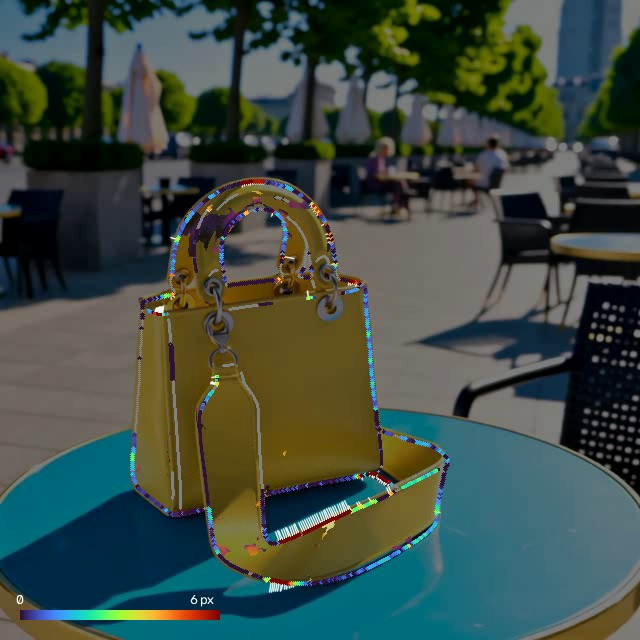
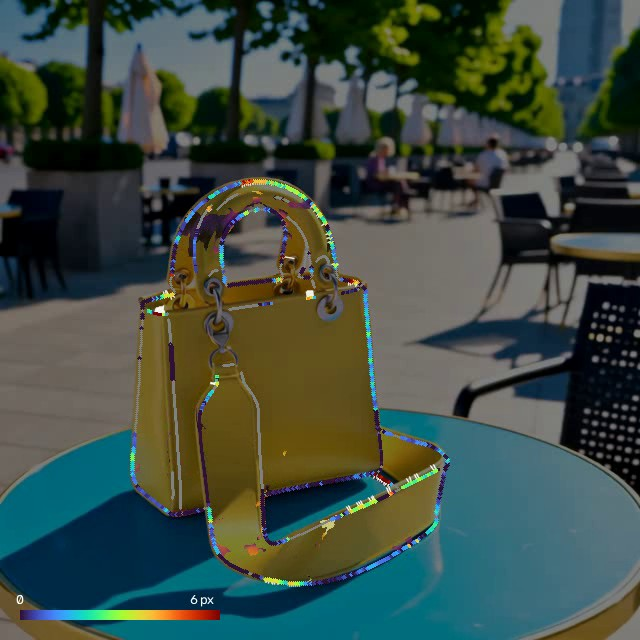
Abandon the warp-based shape correction, keep it as a documented experiment; fix edge detector on cast shadows
- deformation_map.py: absolute colour condition (BAG_COLOR_MAX_DIST = 45) so the
  detector no longer latches onto the table / cast-shadow boundary.
- edge_correction.py: marked as an abandoned experiment; now targets the 3D
  contour itself (raw offset) instead of the affine-placed contour; smoothing
  along edges (--smoothing).
- README: step 5 rewritten as "tried, then abandoned" with the reasons
  (Liquify-like result, unreliable internal edges, large deformations out of
  reach, circular re-measurement); new failure illustration.

diff --git a/comp/edge_correction.py b/comp/edge_correction.py
@@ -1,9 +1,16 @@
 """
 edge_correction.py — CORRECT the bag's shape in the AI video, by pulling its edges back onto the 3D edges.
 
+STATUS: EXPERIMENT TESTED AND ABANDONED (2026-11-11). Kept for reference; see "Correcting the deformation:
+tried, then abandoned" in the README. In short: it passes its synthetic validation, but on real AI videos the
+result looks like a Photoshop Liquify brush (lumpy edges, dented strap where leather passes over leather), and
+an independent colour-based measurement shows only a 12-19 % reduction of the edge error. Use
+deformation_map.py to MEASURE the deformation, and the exact pass-2 mask to PREVENT it.
+
 PRINCIPLE
   deformation_map.py measures, for each 3D edge point, where the matching edge lies in the AI frame: an offset
-  r along the normal (after the global placement). The AI frame is warped to cancel that offset:
+  r along the normal, RAW, i.e. without the global placement (see offset_to_correct). The AI frame is warped to
+  cancel that offset:
     - "backward" field u: output pixel x fetches input pixel x + u(x) (cv2.remap);
     - at edge point P, u(P) = s · N, where s = the offset TO CORRECT: the AI edge is at P + r·N, we want it
       back at P;
@@ -24,6 +31,9 @@ PRINCIPLE
   STABILITY: while the 3D bag is still (frames --still-start to the end), each point's offset is replaced by its
   temporal median (the AI's deformation is stable over time). A single field is applied to the whole range, so
   the image does not wobble.
+
+  SMOOTHING (--smoothing, default 3 px): the correction is smoothed along each edge, since the per-point lighting
+  tolerance is noisy and would otherwise make the corrected edge jitter.
 
   SAFEGUARDS (without them, one aberrant measurement is enough to tear the image):
     1. neighbour consistency (filter_consistency): an AI deformation is SMOOTH along an edge; a point whose
@@ -59,8 +69,14 @@ import edge_confidence as ec
 
 
 def offset_to_correct(sil, conf, mode, min_vis=0.5):
-    """s per point (nan = unknown / left untouched)."""
-    r, T = sil["residual_raw"], sil["T"]
+    """s per point (nan = unknown / left untouched).
+
+    TARGET = THE 3D CONTOUR ITSELF. We correct the RAW offset d (AI edge at P + d·N), not the residual r left after
+    deformation_map's global affine placement. That placement is useful for measuring shape independently of
+    position, but it absorbs part of the real deformations (handles...) and, in compensation, creates fictitious
+    offsets on correct edges (inner strap edge: d = +0.6 px, r = -1.5 px). Correcting r created bumps there. In
+    this pipeline the video is generated from the render, so the right position is known: it is P."""
+    r, T = sil["d"], sil["T"]
     tol = np.fmax(conf["tol"], sil["band"])
     ok = sil["found"] & (conf["vis"] >= min_vis) & np.isfinite(conf["tol"]) & (T <= 1)
     if mode == "certain":
@@ -92,6 +108,44 @@ def filter_consistency(P, T, s, radius=8.0, max_dev=1.5, s_max=6.0, min_neighbou
                 keep[i] = abs(s[idx[i]] - np.median(s[idx[v]])) <= max_dev
         s[idx[~keep]] = np.nan
     return np.where(np.abs(s) <= s_max, s, np.nan)
+
+
+def smooth_along_edges(P, N, T, s, sigma=3.0, cos_min=0.5):
+    """Against jitter: after the consistency filter, two neighbouring points can still get slightly different
+    corrections (the per-point lighting tolerance jumps from 0.2 to 1.1 px between neighbours). An AI deformation is
+    smooth along an edge, so each s is replaced by the Gaussian-weighted mean (sigma px) of its neighbours: same edge
+    type, and normal pointing the same way (cos > cos_min), so that the two sides of a narrow strap are not mixed.
+    The points lie on curves, so this smooths ALONG the contour. sigma = 0: disabled."""
+    if sigma <= 0:
+        return s
+    from scipy.spatial import cKDTree
+    s_s = s.copy()
+    ok = np.isfinite(s)
+    for ty in np.unique(T):
+        idx = np.where(ok & (T == ty))[0]
+        if len(idx) < 2:
+            continue
+        tree = cKDTree(P[idx])
+        for i, v in enumerate(tree.query_ball_point(P[idx], 3 * sigma)):
+            v = np.array(v)
+            v = v[(N[idx[v]] @ N[idx[i]]) > cos_min]
+            d2 = ((P[idx[v]] - P[idx[i]]) ** 2).sum(1)
+            wts = np.exp(-d2 / (2 * sigma ** 2))
+            s_s[idx[i]] = (wts * s[idx[v]]).sum() / wts.sum()
+    return s_s
+
+
+def ripple(sil, r_max=3.0):
+    """Ripple of an edge: along the silhouette (points in contour order, every 2 px), the second difference
+    |r[i-1] - 2 r[i] + r[i+1]| of the measured offset. A straight but shifted edge gives 0; a wavy edge gives a large
+    value. Only triplets of found, consecutive points (less than r_max px apart, so on the same contour) are kept."""
+    P, r, T, f = sil["P"], sil["residual_raw"], sil["T"], sil["found"]
+    i = np.where(T == 0)[0]
+    i = i[(i >= 1) & (i < len(P) - 1)]
+    ok = (T[i - 1] == 0) & (T[i + 1] == 0) & f[i - 1] & f[i] & f[i + 1]
+    ok &= (np.linalg.norm(P[i] - P[i - 1], axis=1) < r_max) & (np.linalg.norm(P[i + 1] - P[i], axis=1) < r_max)
+    i = i[ok]
+    return np.abs(r[i - 1] - 2 * r[i] + r[i + 1])
 
 
 def anti_fold(u, min_det=0.5, attempts=8):
@@ -148,7 +202,7 @@ def measure_offsets(img, mask, passes, conf, mode):
     return sil, offset_to_correct(sil, conf, mode)
 
 
-def correct_frames(frames, masks, passes, confs, mode, still_start, correction_passes=2, sigma=4.0):
+def correct_frames(frames, masks, passes, confs, mode, still_start, correction_passes=2, sigma=4.0, smoothing=3.0):
     """Returns the corrected frames and the fields. Still range: a single field (temporal median)."""
     h, w = frames[0].shape[:2]
     n = len(frames)
@@ -168,6 +222,7 @@ def correct_frames(frames, masks, passes, confs, mode, still_start, correction_p
             if S[k] is None:
                 continue
             s = filter_consistency(sils[k]["P"], sils[k]["T"], S[k])
+            s = smooth_along_edges(sils[k]["P"], sils[k]["N"], sils[k]["T"], s, smoothing)
             u = field_from_points(sils[k]["P"], sils[k]["N"], s, h, w, sigma)
             fields[k] = anti_fold(compose_fields(fields[k], u))
     return [apply_field(frames[k], fields[k]) for k in range(n)], fields
@@ -233,7 +288,7 @@ def mode_validate(a):
                 # Validation frames only, each with its own bumps: no temporal median.
                 sel = val_frames
                 _, fl = correct_frames([video[k] for k in sel], [masks[k] for k in sel], [passes[k] for k in sel],
-                                       [confs[k] for k in sel], mode, len(sel))
+                                       [confs[k] for k in sel], mode, len(sel), smoothing=a.smoothing)
                 fields = dict(zip(sel, fl))
                 for k in val_frames:
                     # EXACT residual error: deformed image D(x) = I(x - c(x)), corrected C(x) = D(x + u(x))
@@ -272,6 +327,15 @@ def mode_validate(a):
                                 row[f"pts_{name}_{lo}-{hi}_before"] = float(bef[m].mean())
                                 row[f"pts_{name}_{lo}-{hi}_after"] = float(aft[m].mean())
                                 row[f"pts_{name}_{lo}-{hi}_n"] = int(m.sum())
+                    # EXACT ripple: residual error along the normal, at the silhouette points taken in contour order;
+                    # second difference between consecutive points (before / after correction).
+                    i0 = np.where(sr["T"] == 0)[0]
+                    Ps, Ns = sr["P"][i0], sr["N"][i0]
+                    e_n = {name: (np.stack([dm.sample_bilinear(np.ascontiguousarray(f_[..., i]), Ps[:, 0], Ps[:, 1]) for i in range(2)], 1) * Ns).sum(1)
+                           for name, f_ in (("before", -c_true), ("after", u - c_u))}
+                    cons = (np.linalg.norm(Ps[1:-1] - Ps[:-2], axis=1) < 3) & (np.linalg.norm(Ps[2:] - Ps[1:-1], axis=1) < 3)
+                    for name, e in e_n.items():
+                        row[f"ripple_sil_{name}"] = float(np.mean(np.abs(e[:-2] - 2 * e[1:-1] + e[2:])[cons]))
                     rows.append(row)
             print(f"lighting {j} bumps={with_bumps} done")
     if os.path.exists(os.path.join(a.out, "_tmp.mp4")):
@@ -280,7 +344,7 @@ def mode_validate(a):
     for b in (False, True):
         for mode in ("certain", "full"):
             L = [r for r in rows if r["bumps"] == b and r["mode"] == mode]
-            keys = sorted({c for r in L for c in r if c.startswith(("bump_", "elsewhere_", "max_displacement", "pts_"))})
+            keys = sorted({c for r in L for c in r if c.startswith(("bump_", "elsewhere_", "max_displacement", "pts_", "ripple"))})
             res[f"{'with' if b else 'without'}_bumps_{mode}"] = {
                 c: float(np.nanmean([r[c] for r in L if c in r])) for c in keys}
     with open(os.path.join(a.out, "validation.json"), "w", encoding="utf-8") as f:
@@ -295,7 +359,7 @@ def mode_correct(a):
     refs, masks, passes = dm.read_refs(a.refs, w, h)
     n = min(len(video), len(refs))
     confs = [dm.read_confidence(a.confidence, k) for k in range(n)]
-    corr, fields = correct_frames(video[:n], masks[:n], passes[:n], confs, a.mode, a.still_start)
+    corr, fields = correct_frames(video[:n], masks[:n], passes[:n], confs, a.mode, a.still_start, smoothing=a.smoothing)
     dm.write_video(os.path.join(a.out, "corrected.mp4"), corr, fps)
     side = []
     for k in range(n):
@@ -310,7 +374,13 @@ def mode_correct(a):
     dm.write_video(os.path.join(a.out, "before_after_field.mp4"), side, fps)
     np.savez_compressed(os.path.join(a.out, "fields.npz"), fields=np.stack(fields).astype(np.float16))
     amp = [float(np.linalg.norm(c, axis=2).max()) for c in fields]
-    print(json.dumps({"max_displacement_px": max(amp), "median_max_displacement_px": float(np.median(amp))}))
+    # Silhouette ripple, before / after, on the still frames (same detector: indicative only).
+    rip = {}
+    for name, imgs in (("before", video), ("after", corr)):
+        v = [ripple(s_) for k in range(a.still_start, n)
+             for s_ in [dm.analyze_edges(masks[k], imgs[k], passes[k])[1]] if s_ is not None]
+        rip[f"ripple_sil_{name}_px"] = float(np.mean(np.concatenate(v)))
+    print(json.dumps({"max_displacement_px": max(amp), "median_max_displacement_px": float(np.median(amp)), **rip}))
 
 
 def main():
@@ -328,6 +398,8 @@ def main():
         s.add_argument("--confidence", required=True)
         s.add_argument("--out", required=True)
         s.add_argument("--still-start", type=int, default=14)
+        s.add_argument("--smoothing", type=float, default=3.0,
+                       help="sigma (px) of the smoothing of the correction along the edges, against jitter (0 = none)")
     a = p.parse_args()
     mode_validate(a) if a.action == "validate" else mode_correct(a)
 

diff --git a/comp/deformation_map.py b/comp/deformation_map.py
@@ -13,8 +13,9 @@ TWO COMPLEMENTARY MEASUREMENTS
    moved at that spot. It is an oriented "chamfer distance".
    Safeguards:
      - the AI edge must be parallel to the 3D contour (otherwise it belongs to something else);
-     - the "inside" of the AI edge must look like the bag, and the "outside" less so.
-       This rejects the edges of cast shadows on the table, often more contrasted than the bag.
+     - the "inside" of the AI edge must look like the bag (colour distance < BAG_COLOR_MAX_DIST), and
+       the "outside" less so. This rejects the edges of cast shadows on the table, often more
+       contrasted than the bag.
    It does not depend on texture: it works even on plain leather.
    Three edge types are measured:
      type 0  SILHOUETTE   contour of the object mask;
@@ -58,6 +59,12 @@ import sys
 
 import cv2
 import numpy as np
+
+# Maximum colour distance (OpenCV 8-bit Lab: L, a, b on 0-255) between the inside of an AI edge and the bag colour
+# read 5 px inside the 3D contour. Chosen on frame 30 of the original-mask video: at 45, false detections on the
+# cast shadow (cyan table / navy shadow boundary) disappear, while silhouette coverage only drops from 84 to 82 %.
+# None = previous behaviour (relative test only).
+BAG_COLOR_MAX_DIST = 45.0
 
 # ---------------------------------------------------------------------------------------------
 # Reading / writing
@@ -308,7 +315,7 @@ def crease_contours(passes, mask, other_P, min_angle=25.0, margin=3, min_size=8,
     return P.astype(np.float32), N.astype(np.float32), half.astype(np.float32)
 
 
-def analyze_edges(mask, ai_bgr, passes=None, R=12, cos_min=0.7, rel_threshold=0.25):
+def analyze_edges(mask, ai_bgr, passes=None, R=12, cos_min=0.7, rel_threshold=0.25, bag_color_max_dist="default"):
     """Edge measurement. Type 0 = silhouette (mask), type 1 = internal occlusion (depth),
     type 2 = crease (normal pass).
     The placement (global affine) is fitted on the SILHOUETTE only, so that numbers stay comparable
@@ -359,7 +366,15 @@ def analyze_edges(mask, ai_bgr, passes=None, R=12, cos_min=0.7, rel_threshold=0.
     bag = read(lab, P[:, 0] - 5 * N[:, 0], P[:, 1] - 5 * N[:, 1])[:, None]
     inside = read(lab, X - 2.5 * N[:, None, 0], Y - 2.5 * N[:, None, 1])
     outside = read(lab, X + 2.5 * N[:, None, 0], Y + 2.5 * N[:, None, 1])
-    bag_side = np.linalg.norm(inside - bag, axis=2) < np.linalg.norm(outside - bag, axis=2)
+    d_inside = np.linalg.norm(inside - bag, axis=2)
+    bag_side = d_inside < np.linalg.norm(outside - bag, axis=2)
+    # ABSOLUTE condition: the inside must LOOK LIKE the bag, not merely be less far from it than the outside.
+    # Otherwise a cyan table / navy shadow boundary passed the test (cyan is "closer" to yellow than navy):
+    # false detections on the cast shadow, and bumps in the edge correction.
+    if bag_color_max_dist == "default":
+        bag_color_max_dist = BAG_COLOR_MAX_DIST
+    if bag_color_max_dist is not None:
+        bag_side &= d_inside < bag_color_max_dist
     # Internal edge: front and back are often the same leather. If, in the AI frame, both sides have
     # almost the same colour, the inside/outside test means nothing → ignored.
     behind = read(lab, P[:, 0] + 5 * N[:, 0], P[:, 1] + 5 * N[:, 1])

diff --git a/README.md b/README.md
@@ -69,7 +69,7 @@ Generative AI makes beautiful images, but it **quietly changes the product**: em
 
 *Top: AI output (salmon pink, mustard yellow). Bottom: brand colours restored, same animated transition. Metal hardware is not solved yet (ΔE 8.6).*
 
-### Measuring and correcting the deformation
+### Measuring the deformation
 
 Colour can be fixed afterwards. **Shape is harder**: is the strap 3 px wider than the real one, is a handle swelling? Because Blender drives the video, every frame has an **exact 3D reference of the same pose, seen by the same camera**. No pose estimation needed: any shape difference is a deformation invented by the AI.
 
@@ -88,30 +88,38 @@ Colour can be fixed afterwards. **Shape is harder**: is the strap 3 px wider tha
 
 | Reliable edge points more than 1 px beyond their tolerance (frames 10–48) | Pass 1 only | Mask +4 px | **Exact mask** |
 |---|---|---|---|
-| All edges | 23 % | 30–35 % | **17–19 %** |
-| Handles, charm, strap | 17 % | 43–48 % | 21–24 % |
-| Stitching | 6 % | 47–53 % | 3–9 % |
+| All edges | 22 % | 32–38 % | **16–18 %** |
+| Handles, charm, strap | 16 % | 46–47 % | 18–19 % |
+| Stitching | 7 % | 76–82 % | 3–9 % |
+
+*(Two seeds per mask; the original +4 px mask is shown here on the controlled pass-2 re-runs.)*
 
 **About half as many deformed edges**, and even fewer than pass 1 alone: a sharp mask contour is a **shape constraint**, not only an area to repaint.
 
 **4. A negative result, kept:** accumulating the measurement over the 35 still frames (`comp/temporal_accumulation.py`, `comp/temporal_noise.py`) changes nothing. The AI's shape is wrong but **stable**: frame-to-frame jitter of an edge point is only 0.02–0.07 px. The limit is a systematic bias (the AI's unknown lighting), not random noise.
 
-**5. Correct: pull the edges back onto the 3D** (`comp/edge_correction.py`). A warp field is built from the reliable silhouette and occlusion points (normalized convolution, σ = 4 px; zero far from the edges, so the set does not move). Two safeguards: **neighbour consistency** (an AI deformation is smooth along an edge, so isolated outliers are dropped) and **anti-fold** (the Jacobian determinant of the warp stays > 0.5). Without them, a single wrong match tore the image (17 px displacement under the strap buckle).
+**5. Correcting it: tried, then abandoned** (`comp/edge_correction.py`, kept for reference). The idea was to warp the AI frame so that its edges land back on the 3D edges. A displacement field is built from the reliable silhouette and occlusion points (normalized convolution, σ = 4 px), only the offset beyond each point's lighting tolerance is corrected, and two safeguards apply: neighbour consistency and anti-fold.
 
-Validation on fake videos with **known** bumps, under unseen lightings. The error is computed from the true displacement field, independently of the edge detector:
+**On paper it worked.** On fake videos with known bumps, under unseen lightings, a 3 px silhouette bump dropped to 1.26 px and no healthy edge was damaged. Re-measured with the same detector, the real videos looked fixed too.
 
-| Mean error (px) | Before | **Certain mode** (default) | Full mode |
-|---|---|---|---|
-| Silhouette, ≈ 3 px bump | 2.97 | **1.44** | 0.93 |
-| Silhouette, ≈ 2 px bump | 1.94 | **1.05** | 0.69 |
-| Internal edges, ≈ 3 px bump | 2.99 | **2.30** | 2.15 |
-| Healthy edges damaged (> 1 px) | 0 % | **0 %** | 7 % ❌ |
+**On screen it did not.** Seen at full size, the corrected frames look like a Photoshop *Liquify* brush, and that is exactly what a warp is:
 
-"Certain" mode only corrects what light cannot explain: it fixes about half of a silhouette deformation and **never damages a correct edge**. "Full" mode corrects more but "fixes" lighting effects, so it is rejected. On the real videos, the share of reliable edges more than 1 px off drops from **19 % to 8 %** (exact mask) and from **34 % to 13 %** (original mask), with a maximum displacement of 5 px.
+![Edge correction, abandoned](docs/images/edge_correction.jpg)
 
-![Edge correction](docs/images/edge_correction.jpg)
+*Frame 40, 3D contour in magenta. Top: even where the AI is almost right (exact mask), the strap tab is dented where leather passes over leather. Bottom: where the AI is far off (handle drawn 5 to 10 px too thick), the correction is partial and lumpy, with a double edge.*
 
-*Frame 30 of the original-mask video, strap (×2), 3D contour in magenta. The right end of the strap, too wide in the AI output, comes back onto the 3D contour. Right: amplitude of the correction field (black = 0, yellow = 4 px). Small ripples remain on the lower edge of the strap (see limits).*
+Why it fails:
+- **A warp is a set of brush strokes.** The field only exists at edge points. Neighbours push by different amounts, or not at all (inside their tolerance, or not measurable: 24–29 % of the points). The field changes within a few pixels, and the leather's highlights bend with it.
+- **The least reliable measurements sit where errors show most.** On internal edges (leather in front of leather), the lighting tolerance is about 2 px and the inside/outside colour test is meaningless. A 1 px mistake there is in the middle of the product.
+- **Large deformations cannot be pushed back.** A warp moves existing pixels. It cannot redraw a handle that the AI drew 10 px too thick.
+- **The re-measurement was circular.** "16 % → 4 % of edges off" only showed that the correction obeyed the detector. An independent colour-based measurement (yellow-leather mask vs 3D mask) gave a real gain of only **12 % (exact mask) and 19 % (original mask)**.
+
+Three bugs were found and fixed on the way, and each fix exposed the next problem:
+1. **The detector latched onto the cast shadow.** Its inside/outside test was only *relative*: cyan table vs navy shadow passed, because cyan is "closer" to yellow. Fixed with an absolute condition in `deformation_map.py` (the inside of an edge must look like the bag).
+2. **The correction aimed at the wrong target.** The deformation map removes a global affine "placement" so that it measures shape independently of position. But the affine absorbs part of the real deformations (handles) and creates fictitious offsets on correct edges, which the warp then "fixed" into bumps. Fixed by aiming at the 3D contour itself: the video is generated from the render, so the right position is known.
+3. **Internal edges.** Not fixable by tuning: see above.
+
+**Conclusion.** Shape is **measured** after generation (`deformation_map.py`) and **prevented** before it (exact pass-2 mask: half as many deformed edges). It is not repaired with a warp. A real repair would mean re-compositing the rendered part, as in demo A, or regenerating.
 
 ---
 
@@ -132,7 +140,7 @@ Validation on fake videos with **known** bumps, under unseen lightings. The erro
 | `comp/edge_confidence.py` | Per-point **confidence map** from the basis lights: visibility and lighting tolerance of each edge point, cross-validated on unseen lightings. |
 | `comp/lighting_noise_test.py` | Measures the offsets caused by lighting alone (same undeformed bag, other suns). |
 | `comp/temporal_accumulation.py`, `comp/temporal_noise.py` | Temporal median over the still frames, and frame-to-frame jitter (negative result: the AI's deformation is stable). |
-| `comp/edge_correction.py` | **Warps the AI video so its edges land back on the 3D edges**. `validate` (known bumps, true-field error) and `correct`. |
+| `comp/edge_correction.py` | *Abandoned experiment, kept for reference.* Warps the AI video so its edges land back on the 3D edges. `validate` (known bumps, true-field error) and `correct`. See step 5 for why it was abandoned. |
 | `comp/pass2_masks.py`, `comp/vace_pass2_mask.py` | Pass 2 temporal mask with a chosen margin, and a graph that re-runs pass 2 alone on a saved pass 1. |
 | `comp/compare_measurements.py` | Side-by-side table of several deformation measurements, per model part. |
 | `workflows/` | ComfyUI workflows (UI format, plus one API-format graph). |
@@ -172,7 +180,7 @@ python qa/fidelity_qa.py --ref renders/cam05_beauty.png --gen fixed.png --out re
 
 **Video:** `blender/animate_drop.py` renders the per-frame passes; encode `depth/` and the after-contact mask as MP4 (`drop_depth.mp4`, `drop_mask_after_contact.mp4`) into ComfyUI's input folder with a yellow reference image (`drop_ref_yellow.png`); run `workflows/06_*`; then `comp/video_brand_color.py` and `comp/video_qa.py`.
 
-**Shape (deformation map and correction):**
+**Shape (deformation map):**
 
 ```bash
 # Passes needed: depth, masks, normals, part ids, basis lights
@@ -182,10 +190,9 @@ blender -b --factory-startup --python blender/animate_drop.py -- --import bag.gl
 # Exact-silhouette mask for pass 2 (instead of +4 px)
 python comp/pass2_masks.py --refs renders/drop --margin 0 --out <ComfyUI>/input/drop_mask_after_contact_m0.mp4
 
-# Confidence map (an AI video provides a realistic set), then measure and correct
+# Confidence map (an AI video provides a realistic set), then measure
 python comp/edge_confidence.py --refs renders/drop --background-video ai.mp4 --out renders/confidence
 python comp/deformation_map.py measure --refs renders/drop --video ai.mp4 --confidence renders/confidence --out reports/deformation
-python comp/edge_correction.py correct --refs renders/drop --video ai.mp4 --confidence renders/confidence --out reports/correction
 ```
 
 ---
@@ -196,8 +203,7 @@ python comp/edge_correction.py correct --refs renders/drop --video ai.mp4 --conf
 - **Thresholds are starting values** (SSIM ≥ 0.80, F1 ≥ 0.75, ΔE ≤ 5; < 2 for a brand colour). They should be calibrated with a house, on its own approved and rejected references.
 - **1024 px only**, one product, one material family (embroidered raffia). Not yet tested: 4K, polished metal, glass, patent leather.
 - **Video is a first result**, not a finished pipeline.
-- **Shape correction is partial by design.** "Certain" mode leaves about the lighting tolerance (≈ 0.7 px on the silhouette, ≈ 2 px on internal edges). Creases are measured but not corrected (their image position depends on light), and a slide *along* an edge is invisible to the method. The warp only moves existing pixels: a detail the AI erased does not come back. Small ripples can appear where neighbouring points get different corrections.
-- **Re-measuring after correction is partly circular** (same detector). The proof is the validation on known bumps; the real-video figures only show that the correction applies.
+- **Shape is measured, not repaired.** The warp-based correction was abandoned (see step 5). The measurement itself is limited by the lighting tolerance (≈ 0.7 px on the silhouette, ≈ 2 px on internal edges), and a slide *along* an edge is invisible to it.
 
 ## Next
 
